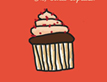
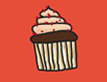
Changed height of thumbnails so they don't stretch out vertically

Changed region(s): [[0.2523, 0.0488, 0.757, 0.878], [0.3084, 0.0, 0.6168, 0.0244], [0.6449, 0.0, 0.8972, 0.0488]]

diff --git a/style.css b/style.css
@@ -47,7 +47,6 @@ button:hover {
   transition: background .3s ease-in-out;
 }
 
-/* When the input field gets focus, change its width to 100% */
 input[type=text]:focus {
   margin-right: 0px;
 }
@@ -70,6 +69,7 @@ input[type=text]:focus {
 
 .result img {
   min-width: 107px;
+  max-height: 82px;
 }
 
 a {
